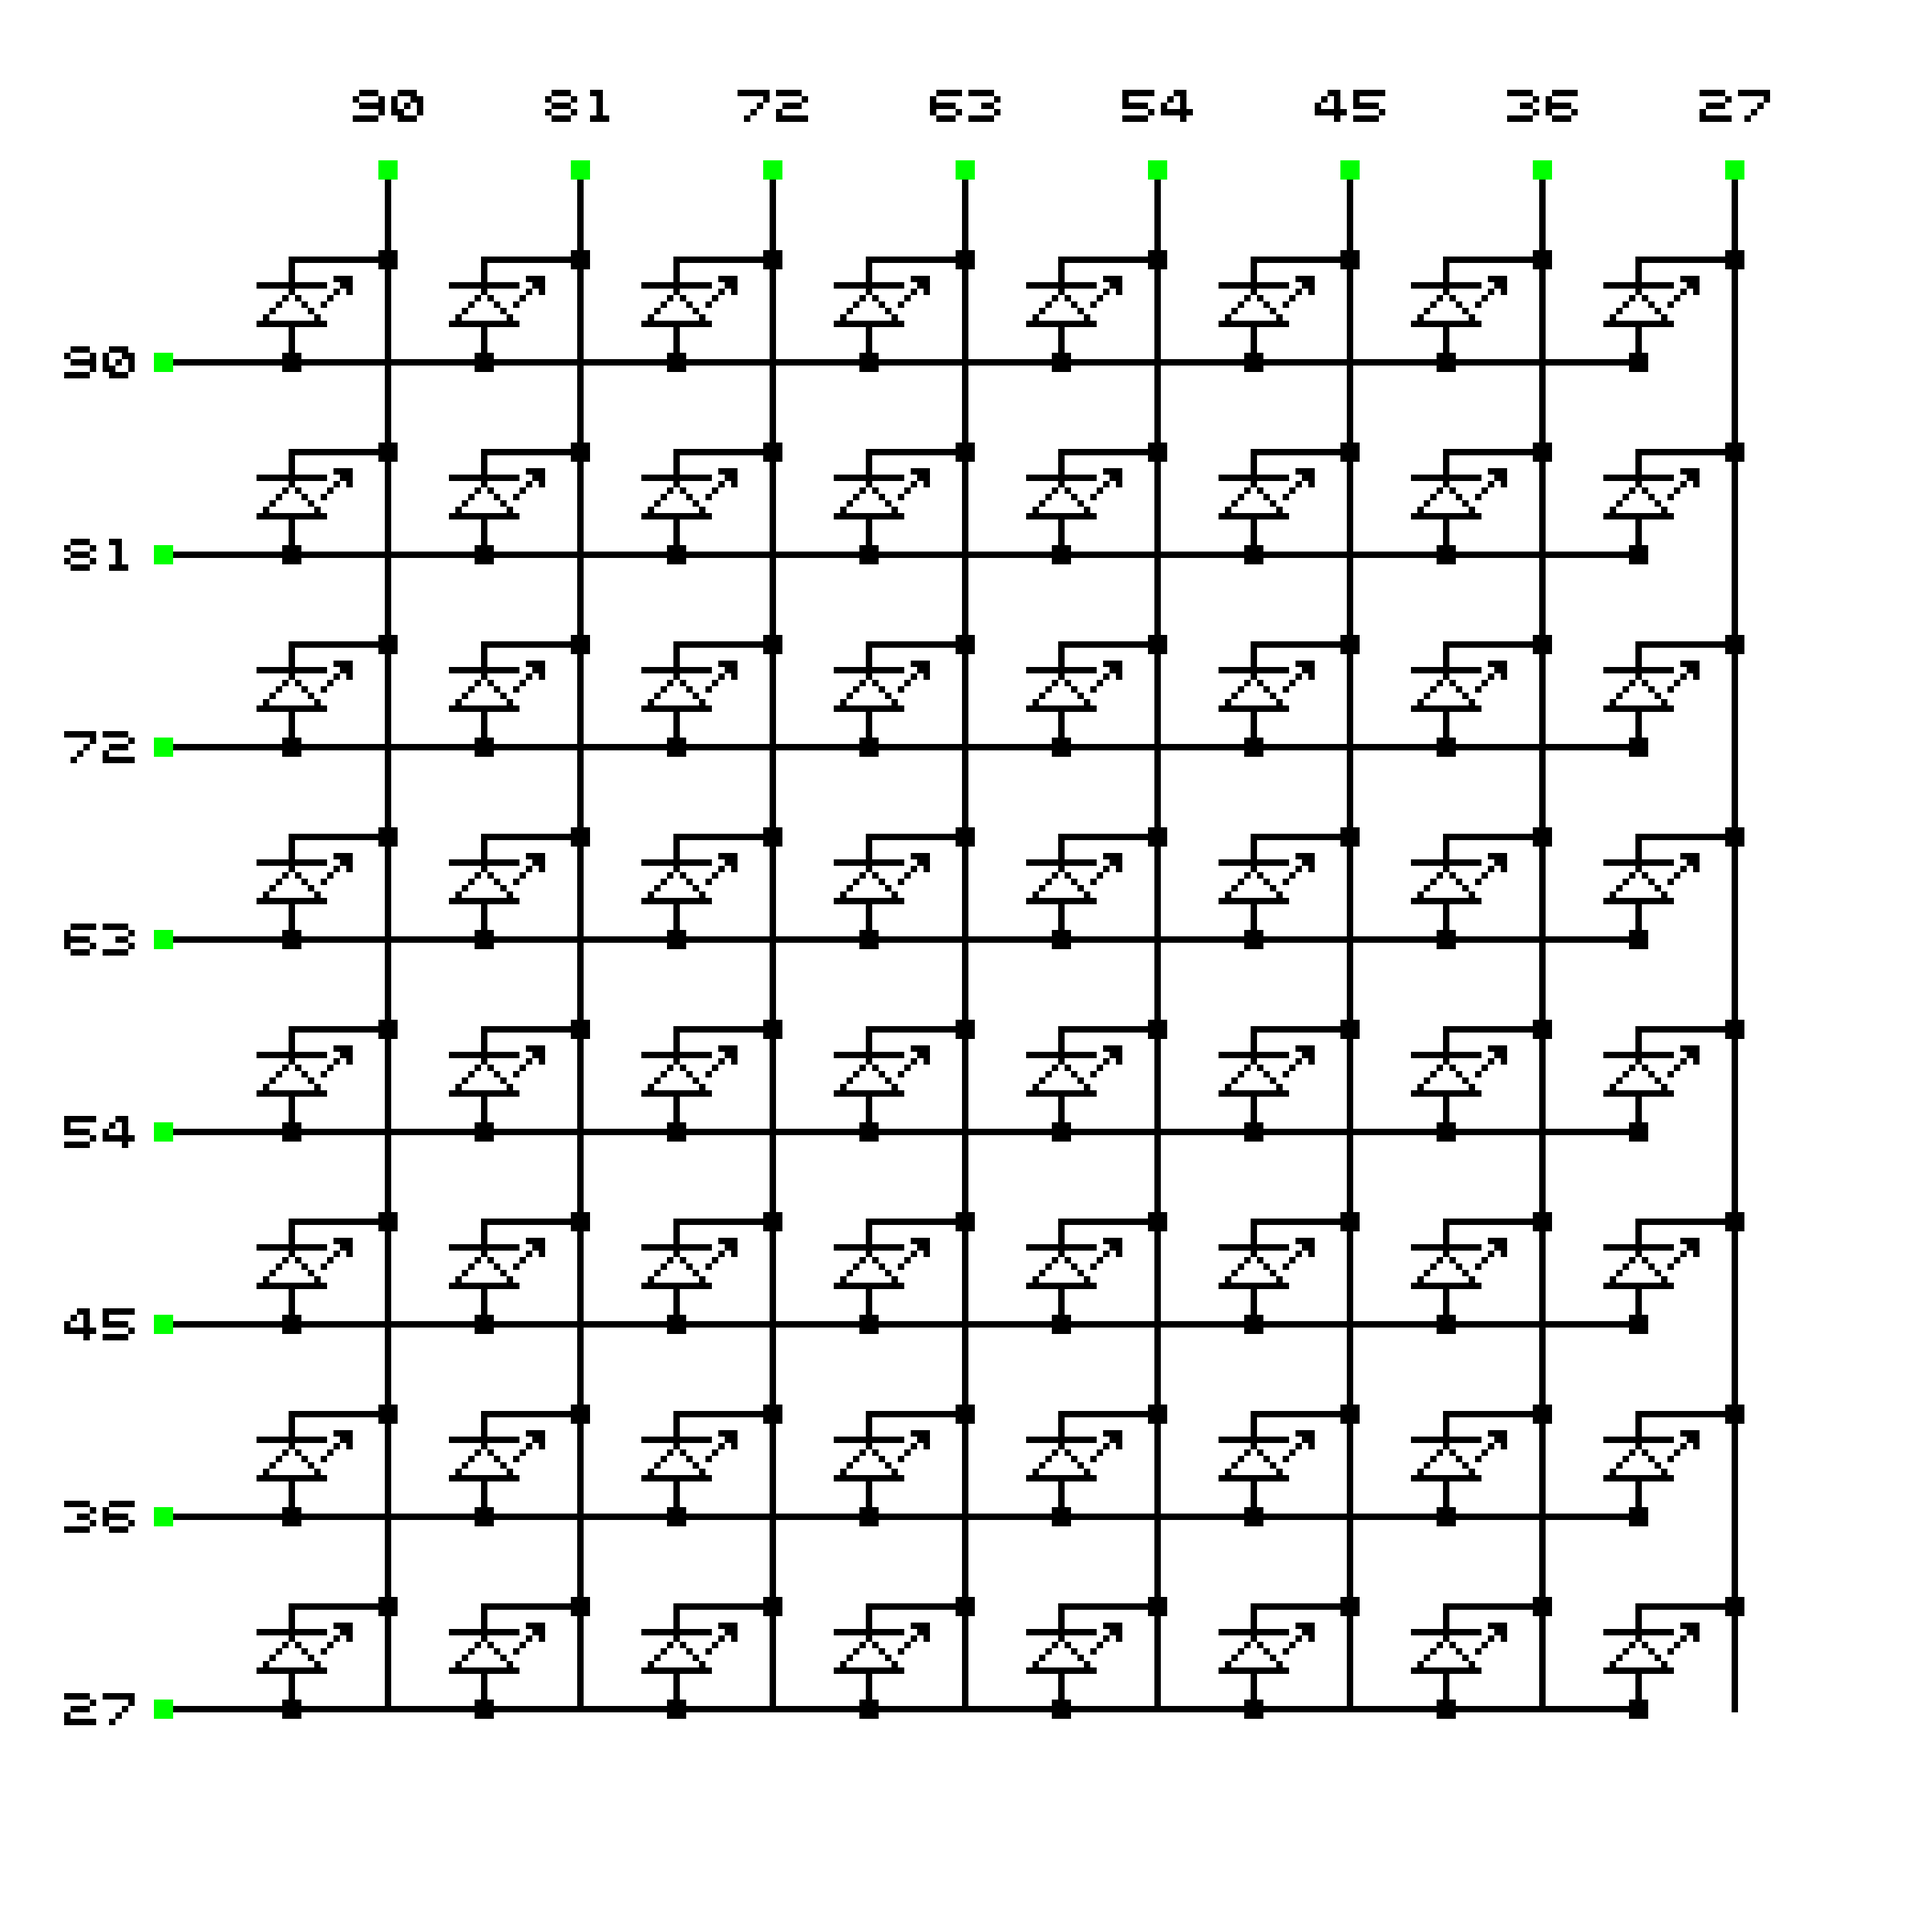
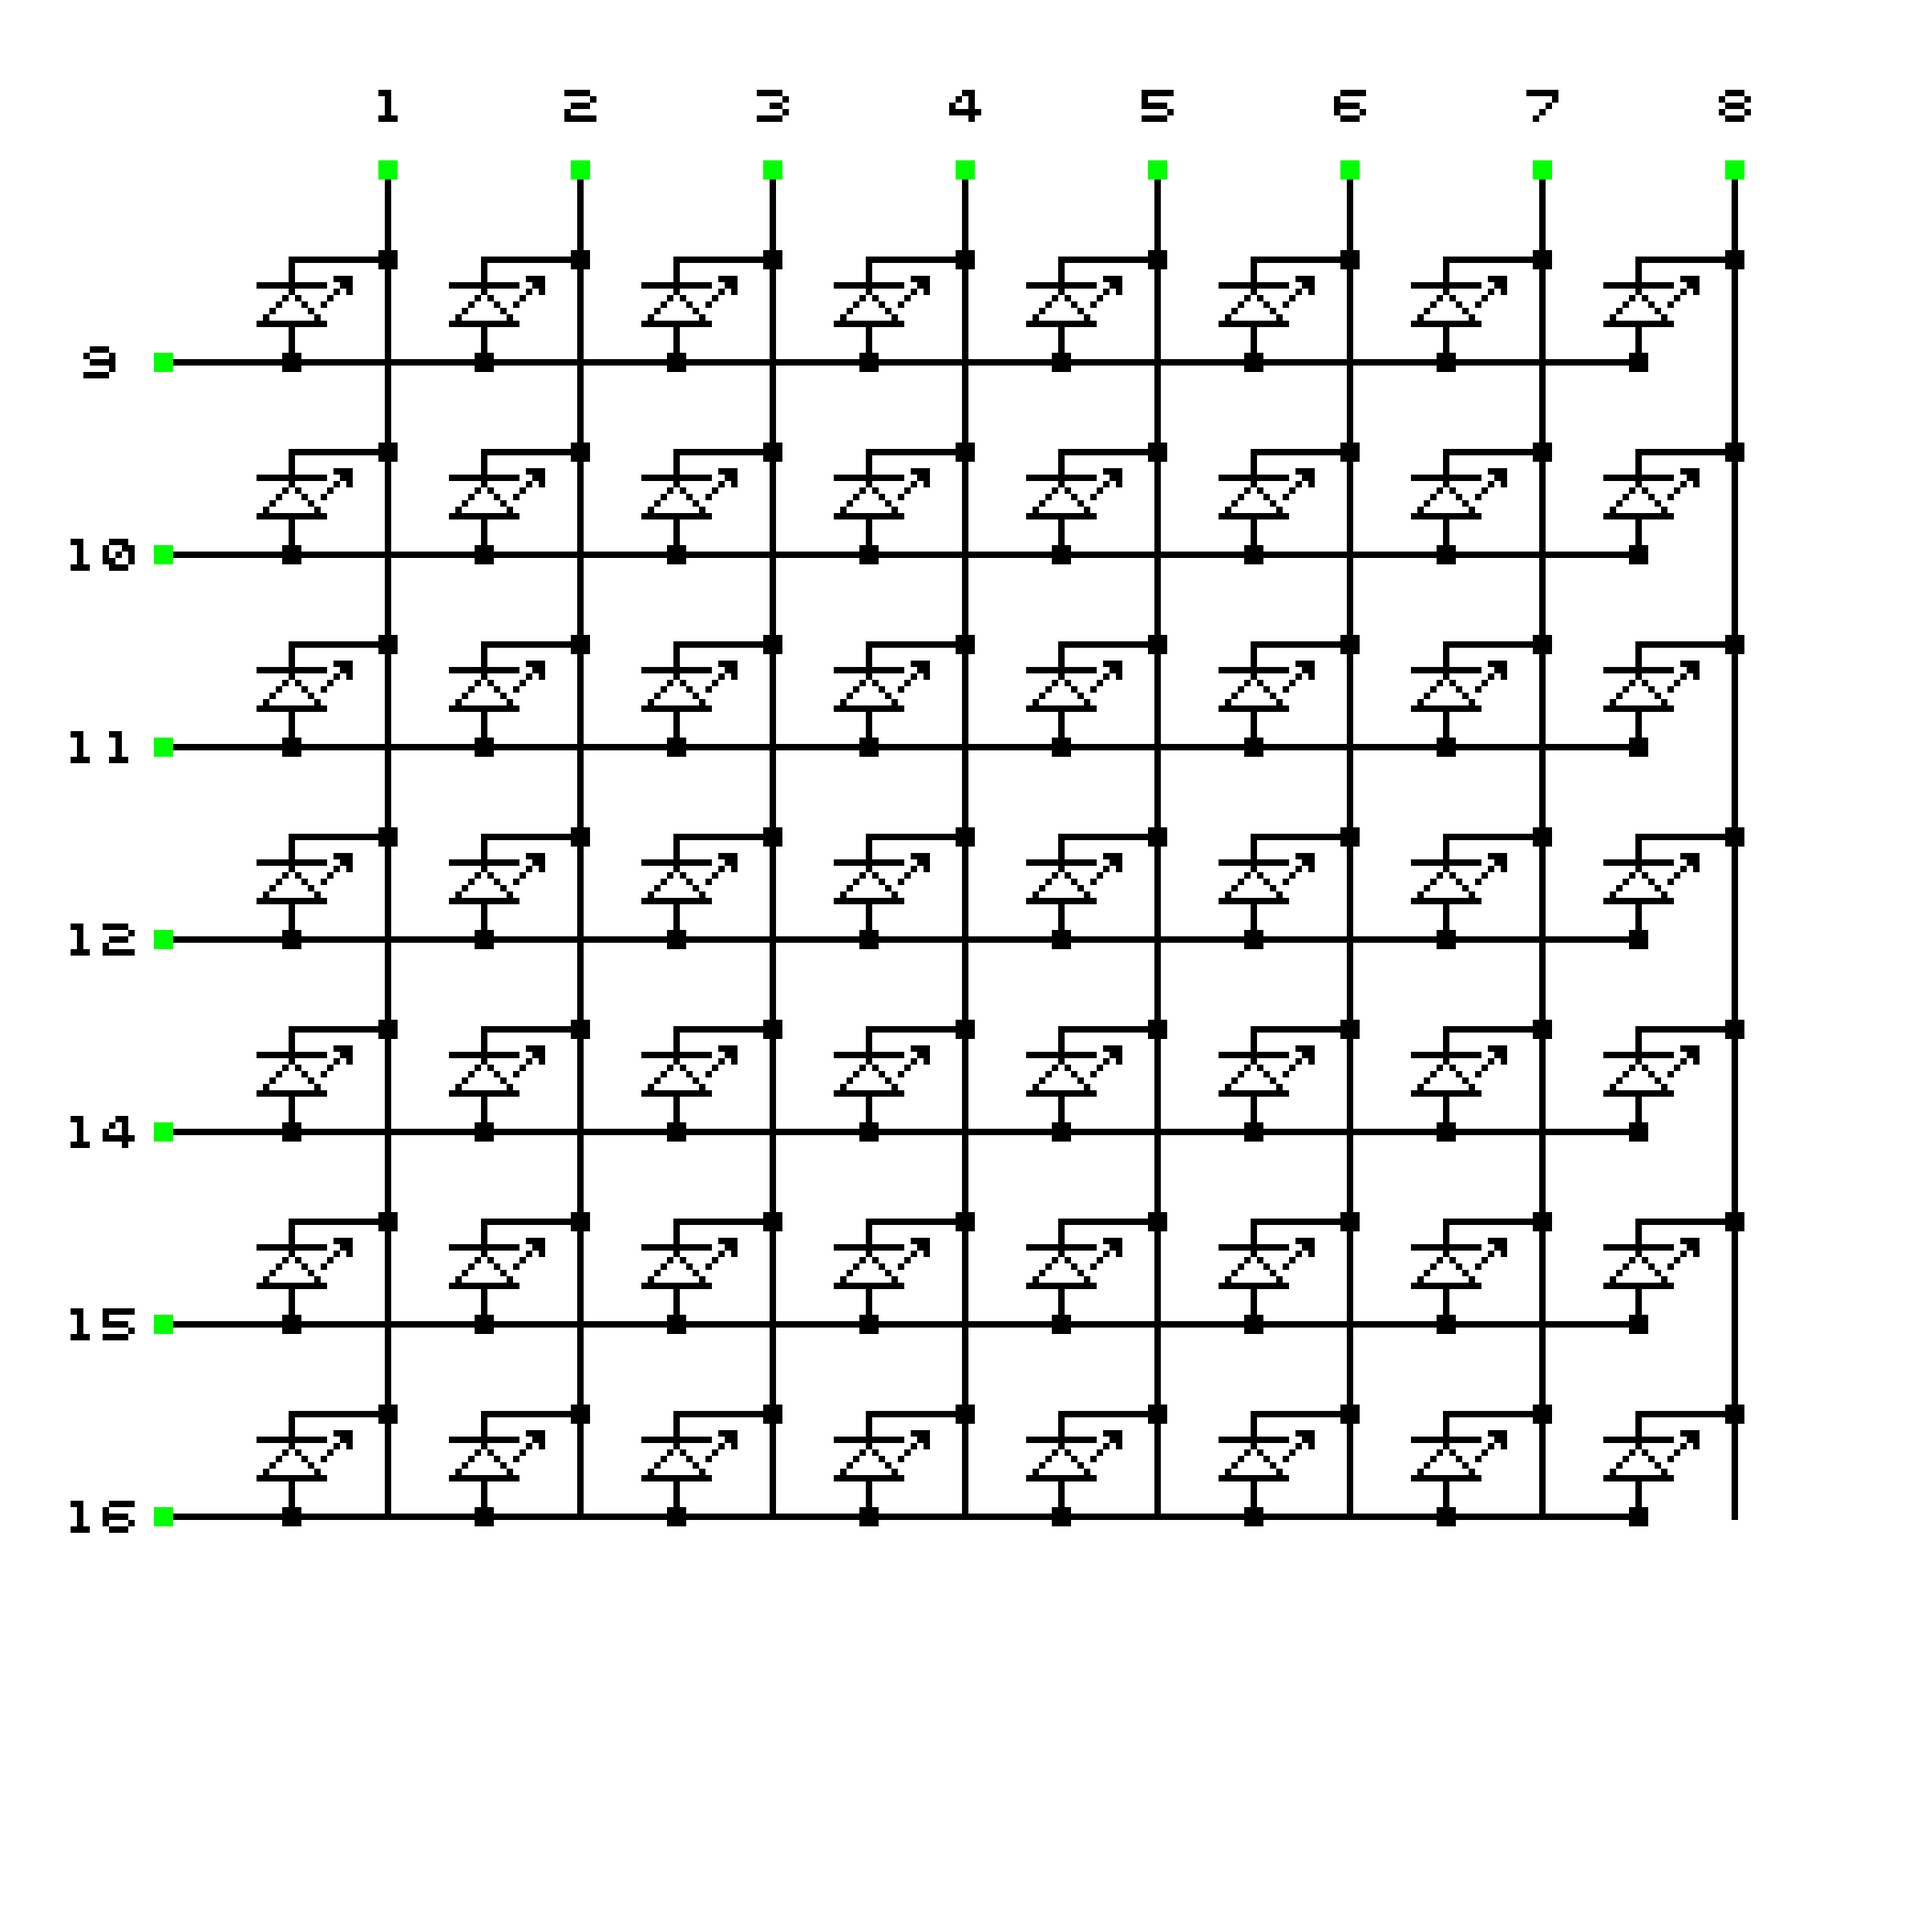
feat(pins): pass in pins to label

diff --git a/cmd/anode-matrix/main.go b/cmd/anode-matrix/main.go
@@ -11,7 +11,9 @@ import (
 )
 
 func main() {
-	createAnodeMatrix()
+	rowPins := []int{1, 2, 3, 4, 5, 6, 7, 8}
+	colPins := []int{9, 10, 11, 12, 14, 15, 16}
+	CreateAnodeMatrix(rowPins, colPins)
 }
 
 func addLEDS(board *canvas.Board, ledMatrix [][]components.LEDConfig, cols, rows int) {
@@ -31,7 +33,7 @@ func addLEDS(board *canvas.Board, ledMatrix [][]components.LEDConfig, cols, rows
 	}
 }
 
-func addVerticalWires(board *canvas.Board, ledMatrix [][]components.LEDConfig, cols, rows int) {
+func addVerticalWires(board *canvas.Board, ledMatrix [][]components.LEDConfig, cols, rows int, pins []int) {
 	for i := 0; i < cols; i++ {
 		x := ledMatrix[0][i].GetAnode().X + 15
 		startY := ledMatrix[0][i].GetAnode().Y - 30
@@ -39,12 +41,12 @@ func addVerticalWires(board *canvas.Board, ledMatrix [][]components.LEDConfig, c
 		wire := components.NewWire(common.NewCord(x, startY), common.NewCord(x, endY))
 		board.AddElement(&wire)
 
-		label := components.NewLabel(common.NewCord(x, ledMatrix[0][i].GetAnode().Y-40), fmt.Sprintf("%d%d", 9-i, i))
+		label := components.NewLabel(common.NewCord(x, ledMatrix[0][i].GetAnode().Y-40), fmt.Sprintf("%d",pins[i]))
 		board.AddElement(&label)
 	}
 }
 
-func addHorizontalWires(board *canvas.Board, ledMatrix [][]components.LEDConfig, cols, rows int) {
+func addHorizontalWires(board *canvas.Board, ledMatrix [][]components.LEDConfig, cols, rows int, pins []int) {
 	for i := 0; i < rows; i++ {
 		y := ledMatrix[i][0].GetAnode().Y
 		startX := ledMatrix[i][0].GetAnode().X - 20
@@ -52,18 +54,20 @@ func addHorizontalWires(board *canvas.Board, ledMatrix [][]components.LEDConfig,
 		wire := components.NewWire(common.NewCord(startX, y), common.NewCord(endX, y))
 		board.AddElement(&wire)
 
-		label := components.NewLabel(common.NewCord(startX-10, y), fmt.Sprintf("%d%d", 9-i, i))
+		pinAsString := fmt.Sprintf("%d", pins[i])
+		log.Println(pinAsString)
+		label := components.NewLabel(common.NewCord(startX-10, y), pinAsString)
 		board.AddElement(&label)
 	}
 }
 
-func createAnodeMatrix() {
+func CreateAnodeMatrix(rowPins, colPins []int) {
 	realOS := &common.OSReal{}
 
 	board := canvas.NewBoard("anode-matrix-16", 300, 300, 10)
 
-	cols := 8
-	rows := 8
+	cols := len(rowPins)
+	rows := len(colPins)
 
 	ledMatrix := make([][]components.LEDConfig, rows)
 	for i := range ledMatrix {
@@ -84,9 +88,9 @@ func createAnodeMatrix() {
 		}
 	}
 
-	addHorizontalWires(&board, ledMatrix, cols, rows)
+	addHorizontalWires(&board, ledMatrix, cols, rows, colPins)
 
-	addVerticalWires(&board, ledMatrix, cols, rows)
+	addVerticalWires(&board, ledMatrix, cols, rows, rowPins)
 
 	// horzonal gpio
 	for _, led := range ledMatrix[0] {
